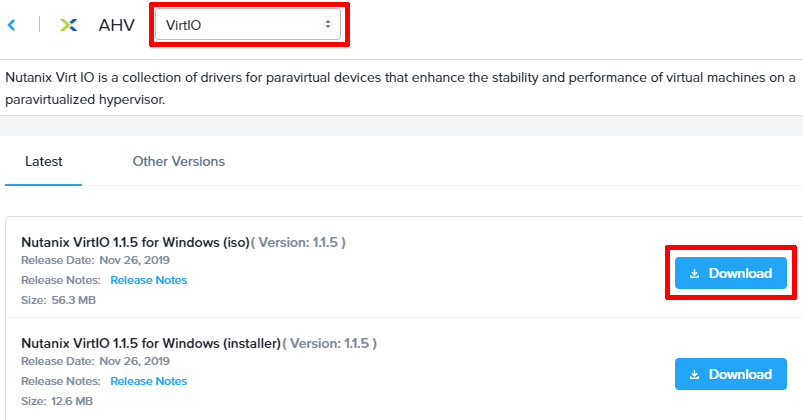
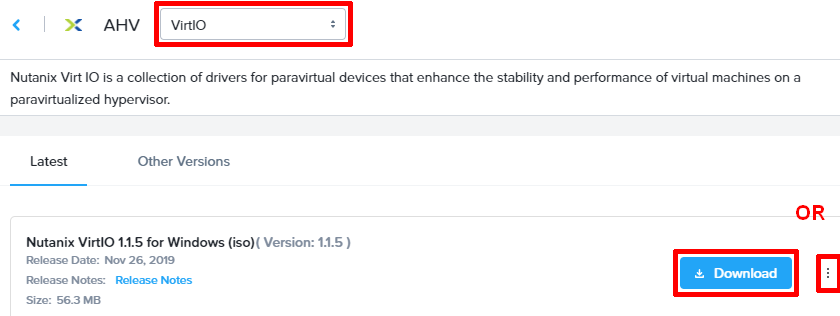
10-8-20.2
Windows scratch updates (final?)

diff --git a/windows_scratch/windows_scratch.rst b/windows_scratch/windows_scratch.rst
@@ -18,9 +18,9 @@ There are a few pieces of software that are required to be able to accomplish th
 VirtIO
 ......
 
-Nutanix Virt IO is a collection of drivers for paravirtual devices that enhance the stability and performance of virtual machines on a paravirtualized hypervisor (Network, Disk, ). This is required to install Microsoft Windows on Nutanix AHV.
+Nutanix Virt IO is a collection of drivers for paravirtual devices that enhance the stability and performance of virtual machines on a paravirtualized hypervisor (Balloon, Ethernet, and SCSI pass through drivers). This is required to install Microsoft Windows on Nutanix AHV.
 
-#. Within the `AHV section of the Downloads page on the Nutanix Portal <https://portal.nutanix.com/page/downloads?product=ahv>`_, choose **VirtIO** from the dropdown, and then either click the **Download** button associated with the latest version of *Nutanix VirtIO for Windows (iso)*, or the :fa:`elipsis`next to it, and choose **Copy Download Link**.
+#. Within the `AHV section of the Downloads page on the Nutanix Portal <https://portal.nutanix.com/page/downloads?product=ahv>`_, choose **VirtIO** from the dropdown, and then either click the **Download** button associated with the latest version of *Nutanix VirtIO for Windows (iso)*, or the :fa:`ellipsis-v`next to it, and choose **Copy Download Link**.
 
    .. figure:: images/4.png
 
@@ -36,23 +36,25 @@ Nutanix Virt IO is a collection of drivers for paravirtual devices that enhance 
 
    - **Image Type** - ISO
 
-|
+
 
    **Choose one of the following**:
 
-      - Within *Image Source*, click **Upload a file > Choose File**. Browse to the ISO file for VirtIO, and click **Open**.
+   **EITHER**
+
+      - Within *Image Source*, click **Upload a file > Choose File**. Browse to the ISO file for VirtIO, select it, and click **Open**.
 
          .. figure:: images/6.png
 
    **OR**
 
-      - Click :fa:`dot-circle` **From URL**, and paste the download link you previously copied from the Nutanix Portal.
+      - Within *Image Source*, click :fa:`dot-circle` **From URL**, and paste the download link you previously copied from the Nutanix Portal.
 
          .. figure:: images/5.png
 
          .. note::
 
-            Verify that the *Image Type* is **ISO**. After pasting the download link, as it may change to **Disk**.
+            Verify that the *Image Type* is **ISO** before clicking **Save**. After pasting the download link, as it may change to **Disk**.
 
 #. Click **Save**.
 
@@ -80,19 +82,19 @@ Installing Windows 2016 from ISO
 
    - **Image Type** - ISO
 
-#. Within *Image Source*, click **Upload a file > Choose File**. Browse to the ISO file for Windows 2016, and click **Open**.
+#. Within *Image Source*, click **Upload a file > Choose File**. Browse to the ISO file for Windows 2016, select it, and click **Open**.
 
 #. Click **Save**.
 
    .. figure:: images/1.png
 
-#. Within Prism Element, click on :fa:`bars` **> Virtual Infrastructure > VMs**.
+#. Choose **VM** from the dropdown menu.
 
 #. Click on :fa:`plus` **Create VM**.
 
 #. Enter the following with the listed fields:
 
-   - **Name** - Windows2016Image
+   - **Name** - Windows2016
 
    - **vCPU** - 2
 
@@ -100,21 +102,21 @@ Installing Windows 2016 from ISO
 
 #. Click on :fa:`plus` **Add New Disk**.
 
-#. Within the *Disks* section, click on :fa:`pencil-alt` for the *CD-ROM* entry. Within the *Operation* dropdown, choose **Clone from Image Service**. Within the *Image* dropdown, choose **Windows2016ISO**. Click **Update**.
+#. Within the *Disks* section, click on the pencil next to the *CD-ROM* entry. Within the *Operation* dropdown, choose **Clone from Image Service**. Within the *Image* dropdown, choose **Windows2016ISO**. Click **Update**.
 
-#. Within the *Add Disk* dialog box, enter **100** for *Size*, and click **Add**.
+#. Within the *Add Disk* dialog box, enter **100** for *Size (GiB)*, and click **Add**.
 
    .. figure:: images/2.png
 
 Click on :fa:`plus` **Add New Disk**. Change the *Type* to **CD-ROM**. Change the *Operation* to **Clone from Image Service**. Change *Image* to **VirtIO**. Click **Add**.
 
-#. Click :fa:`plus` **Add New NIC**, and click **Add**.
+#. Click :fa:`plus` **Add New NIC**. Ensure *Primary* is selected, and click **Add**. and click **Add**.
 
 #. Click **Save**.
 
 #. Within Prism Element, right click on your *Windows2016* VM, and choose **Power on**.
 
-#. Wait a few moments, then right click on your *Windows2016* VM, and choose **Launch Console**.
+#. Wait a few moments, then right click on your *Windows2016* VM once more, and choose **Launch Console**.
 
 #. Click **Next** on the initial *Windows Setup* screen, then click **Install Now**.
 
@@ -124,23 +126,23 @@ Click on :fa:`plus` **Add New Disk**. Change the *Type* to **CD-ROM**. Change th
 
 #. Choose **Custom**.
 
-#. Click **Load Driver**.
+#. Click **Load Driver > Browse**.
 
 #. Choose the CD-ROM drive that has the VirtIO ISO loaded. Click on **Windows Server 2016 > amd64**. Click **OK**.
 
    .. figure:: images/7.png
 
-#. Highlight all entries by CTRL-clicking (Mac: CMD-click ??) each entry, and click **Next**.
+#. Highlight all entries by CTRL-clicking each entry, and click **Next**.
 
-#. The installation disk should not be displayed. Click **Next** to begin the Windows installation process.
+#. The installation disk should now be displayed. Click **Next** to begin the Windows installation process.
 
 #. Set the Administrator as **nutanix/4u** for ease of use, and login as Administrator.
 
-#. Within Prism Element, right click on your *Win16SQL16* VM, and choose **Update**.
+#. Within Prism Element, right click on your *Windows2016* VM, and choose **Update**.
 
 #. Remove one CD-ROM drive by clicking the :fa:`times` icon.
 
-#. Recommend you perform all Windows updates. This can be very time consuming, you may wish to move onto other tasks/demos, while you monitor this from time to time and restart when prompted.
+#. Recommend you perform all Windows updates. This can be very time consuming, so you may wish to move onto other tasks/demos while you monitor this from time to time and restart when prompted.
 
 #. Windows Updates will require multiple restarts to apply all updates. Every time you are prompted to restart, do so, and check for Windows Updates once again. Process only when there are no other updates to apply.
 
@@ -172,7 +174,7 @@ Installing Windows 2019 from ISO
 
    - **Image Type** - ISO
 
-#. Within *Image Source*, click **Upload a file > Choose File**. Browse to the ISO file for Windows 2019, and click **Open**.
+#. Within *Image Source*, click **Upload a file > Choose File**. Browse to the ISO file for Windows 2019, select it, and click **Open**.
 
 #. Click **Save**.
 
@@ -184,7 +186,7 @@ Installing Windows 2019 from ISO
 
 #. Enter the following with the listed fields:
 
-   - **Name** - Windows2019Image
+   - **Name** - Windows2019
 
    - **vCPU** - 2
 
@@ -192,15 +194,15 @@ Installing Windows 2019 from ISO
 
 #. Click on :fa:`plus` **Add New Disk**.
 
-#. WIthin the *Disks* section, click on :fa:`pencil-alt` for the *CD-ROM* entry. Within the *Operation* dropdown, choose **Clone from Image Service**. Within the *Image* dropdown, choose **Windows2019ISO**. Click **Update**.
+#. Within the *Disks* section, click on the pencil next to the *CD-ROM* entry. Within the *Operation* dropdown, choose **Clone from Image Service**. Within the *Image* dropdown, choose **Windows2019ISO**. Click **Update**.
 
-#. Within the *Add Disk* dialog box, enter **100** for *Size*, and click **Add**.
+#. Click on :fa:`plus` **Add New Disk**. Within the *Add Disk* dialog box, enter **100** for *Size (GiB)*, and click **Add**.
 
    .. figure:: images/2.png
 
 Click on :fa:`plus` **Add New Disk**. Change the *Type* to **CD-ROM**. Change the *Operation* to **Clone from Image Service**. Change *Image* to **VirtIO**. Click **Add**.
 
-#. Click :fa:`plus` **Add New NIC**, and click **Add**.
+#. Click :fa:`plus` **Add New NIC**. Ensure *Primary* is selected, and click **Add**.
 
 #. Click **Save**.
 
@@ -214,25 +216,25 @@ Click on :fa:`plus` **Add New Disk**. Change the *Type* to **CD-ROM**. Change th
 
 #. Click the **I accept the license terms** box, and then click **Next**.
 
-#. Choose **Custom**
+#. Choose **Custom**.
 
-#. Click **Load Driver**
+#. Click **Load Driver > Browse**.
 
-#. Choose the CD-ROM drive that has the VirtIO ISO loaded. Click on **Windows Server 2016 > amd64**. Click **OK**.
+#. Choose the CD-ROM drive that has the VirtIO ISO loaded. Click on **Windows Server 2019 > amd64**. Click **OK**.
 
-   .. figure:: images/7.png
+   .. figure:: images/7a.png
 
 #. Highlight all entries by CTRL-clicking each entry, and click **Next**.
 
-#. The installation disk should not be displayed. Click **Next** to begin the Windows installation process.
+#. The installation disk should now be displayed. Click **Next** to begin the Windows installation process.
 
 #. Set the Administrator as **nutanix/4u** for ease of use, and login as Administrator.
 
-#. Within Prism Element, right click on your *Win19SQL16* VM, and choose **Update**.
+#. Within Prism Element, right click on your *Windows2019* VM, and choose **Update**.
 
 #. Remove one CD-ROM drive by clicking the :fa:`times` icon.
 
-#. Recommend you perform all Windows updates. This can be very time consuming, you may wish to move onto other tasks/demos, while you monitor this from time to time and restart when prompt
+#. Recommend you perform all Windows updates. This can be very time consuming, so you may wish to move onto other tasks/demos while you monitor this from time to time and restart when prompt
 
 #. Windows Updates will require multiple restarts to apply all updates. Every time you are prompted to restart, do so, and check for Windows Updates once again. Process only when there are no other updates to apply.
 
